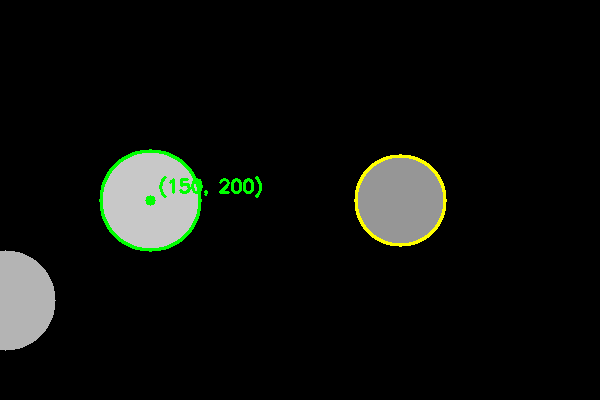
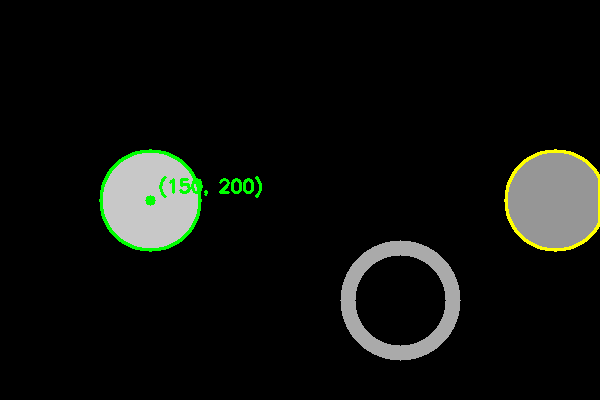
fix: 移除边界接触过滤，改为纯凸包完整度判断
- 删除"触碰边界即剔除"逻辑，贴边完整细胞不再被误过滤
- 过滤条件改为仅: mask像素数 / 凸包面积 < 70%
- 被过滤细胞打印完整度数值便于调试验证

Changed region(s): [[0.57, 0.39, 0.78, 0.9], [0.84, 0.36, 1.0, 0.63], [0.0, 0.63, 0.09, 0.9]]

diff --git a/test_filter.py b/test_filter.py
@@ -20,25 +20,22 @@ def simulate_render(raw_image, masks, output_path):
     for cid in cell_ids:
         mask = (masks == cid).astype(np.uint8)
 
-        # Edge boundary filter
-        if (np.any(mask[0, :] > 0) or np.any(mask[-1, :] > 0) or
-                np.any(mask[:, 0] > 0) or np.any(mask[:, -1] > 0)):
-            skipped_incomplete += 1
-            continue
-
         # Convex hull completeness filter
         contours, _ = cv2.findContours(mask, cv2.RETR_EXTERNAL, cv2.CHAIN_APPROX_SIMPLE)
         if not contours:
+            print(f"  [skip] cell {cid}: no contours")
             skipped_incomplete += 1
             continue
         hull = cv2.convexHull(contours[0])
         hull_area = cv2.contourArea(hull)
         if hull_area == 0:
+            print(f"  [skip] cell {cid}: hull_area=0")
             skipped_incomplete += 1
             continue
         mask_area = float(np.sum(mask > 0))
         completeness = mask_area / hull_area
         if completeness < 0.7:
+            print(f"  [skip] cell {cid}: completeness={completeness:.3f} < 0.70")
             skipped_incomplete += 1
             continue
 
@@ -83,7 +80,11 @@ def simulate_render(raw_image, masks, output_path):
 
 
 def test_synthetic():
-    """Create synthetic image with one edge cell and two full cells."""
+    """Test completeness filter:
+    - Cell 1: full circle (completeness ~1.0) → keep
+    - Cell 2: full circle touching boundary (completeness ~1.0) → keep (not penalized for touching edge)
+    - Cell 3: crescent/C-shape with large hull but small mask (completeness ~0.4) → filter
+    """
     H, W = 400, 600
     img = np.zeros((H, W, 3), dtype=np.uint8)
     masks = np.zeros((H, W), dtype=np.int32)
@@ -94,26 +95,34 @@ def test_synthetic():
     cv2.circle(mask1, (150, 200), 50, 1, -1)
     masks[mask1 > 0] = 1
 
-    # Cell 2: full circle, center (400, 200), radius 45, medium
-    cv2.circle(img, (400, 200), 45, (150, 150, 150), -1)
+    # Cell 2: full circle touching right boundary (center at x=555, r=50 → right edge at x=605 > W=600)
+    cv2.circle(img, (555, 200), 50, (150, 150, 150), -1)
     mask2 = np.zeros((H, W), dtype=np.uint8)
-    cv2.circle(mask2, (400, 200), 45, 1, -1)
-    masks[mask2 > 0] = 2
+    cv2.circle(mask2, (555, 200), 50, 1, -1)
+    masks[(mask2 > 0) & (masks == 0)] = 2
 
-    # Cell 3 (EDGE): circle centered at (5, 300), mostly outside image — only ~30% visible
-    cv2.circle(img, (5, 300), 50, (180, 180, 180), -1)
+    # Cell 3: crescent shape — large outer circle minus inner circle → low completeness
+    # Outer circle r=60, inner hole r=50 → ring area ≈ π(60²-50²) ≈ 3456px
+    # Hull ≈ π*60² ≈ 11310 → completeness ≈ 0.31 → should be filtered
     mask3 = np.zeros((H, W), dtype=np.uint8)
-    cv2.circle(mask3, (5, 300), 50, 1, -1)
+    cv2.circle(mask3, (400, 300), 60, 1, -1)
+    cv2.circle(mask3, (400, 300), 45, 0, -1)   # cut out center → crescent
+    cv2.circle(img, (400, 300), 60, (170, 170, 170), -1)
+    cv2.circle(img, (400, 300), 45, (0, 0, 0), -1)
     masks[(mask3 > 0) & (masks == 0)] = 3
 
     output_path = os.path.join(os.path.dirname(__file__), "test_output_synthetic.png")
     cell_list, total, skipped = simulate_render(img, masks, output_path)
 
     print(f"\n[TEST] Total detected: {total}, After filter: {len(cell_list)}, Skipped: {skipped}")
-    assert len(cell_list) == 2, f"Expected 2 valid cells, got {len(cell_list)}"
     assert total == 3, f"Expected 3 detected, got {total}"
-    assert skipped >= 1, "Edge cell should have been filtered"
-    print("[TEST] PASS: edge cell correctly filtered out")
+    # Cell 2 (touching boundary) must be kept — completeness is high
+    kept_positions = [c['pos'] for c in cell_list]
+    assert any(x > 500 for x, y in kept_positions), \
+        "Cell touching boundary should be KEPT (completeness >= 0.7)"
+    # Cell 3 (crescent) must be filtered — completeness is low
+    assert skipped >= 1, "Crescent cell should be filtered (completeness < 0.7)"
+    print("[TEST] PASS: boundary-touching complete cell kept, crescent cell filtered")
     return output_path
 
 

diff --git a/cells_find.py b/cells_find.py
@@ -121,25 +121,22 @@ class CellAppCP3:
         for cid in cell_ids:
             mask = (masks == cid).astype(np.uint8)
 
-            # 边界接触过滤：mask触碰图像任意边缘则剔除（弧形cap本身是凸形，凸包比无法检测此类截断）
-            if (np.any(mask[0, :] > 0) or np.any(mask[-1, :] > 0) or
-                    np.any(mask[:, 0] > 0) or np.any(mask[:, -1] > 0)):
-                skipped_incomplete += 1
-                continue
-
             # 凸包完整度过滤：mask实际像素数 / 凸包面积 < 70% 则剔除
             contours, _ = cv2.findContours(mask, cv2.RETR_EXTERNAL, cv2.CHAIN_APPROX_SIMPLE)
             if not contours:
+                print(f"  [skip] cell {cid}: no contours")
                 skipped_incomplete += 1
                 continue
             hull = cv2.convexHull(contours[0])
             hull_area = cv2.contourArea(hull)
             if hull_area == 0:
+                print(f"  [skip] cell {cid}: hull_area=0")
                 skipped_incomplete += 1
                 continue
             mask_area = float(np.sum(mask > 0))
             completeness = mask_area / hull_area
             if completeness < 0.7:
+                print(f"  [skip] cell {cid}: completeness={completeness:.3f} < 0.70")
                 skipped_incomplete += 1
                 continue
 
